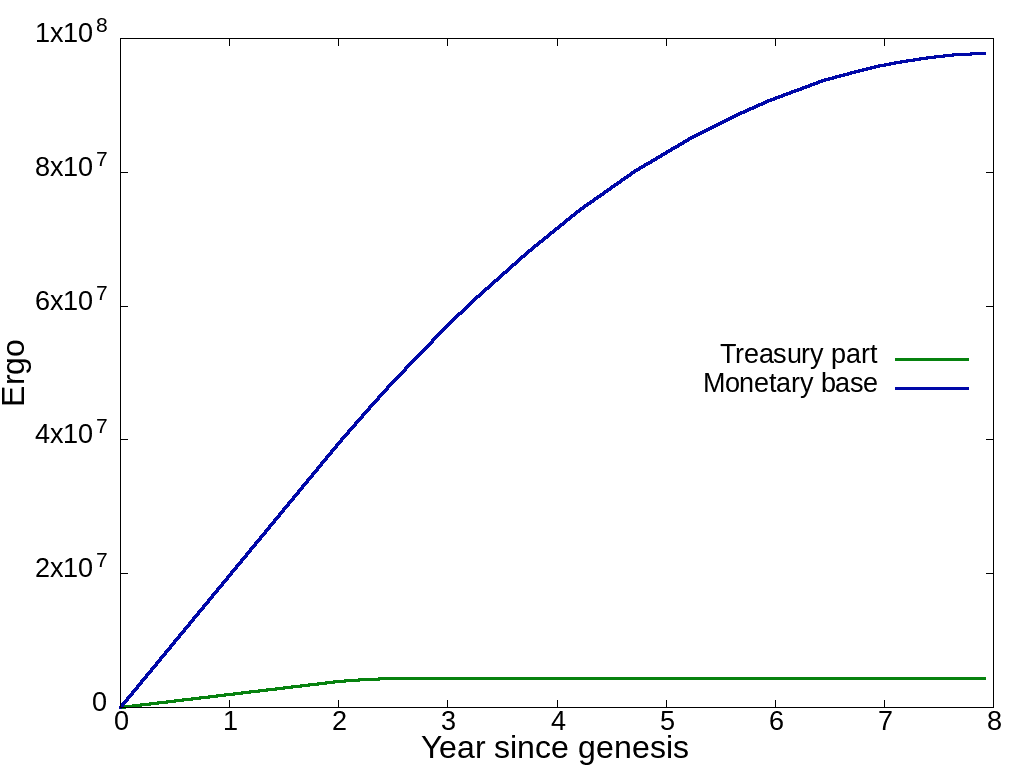
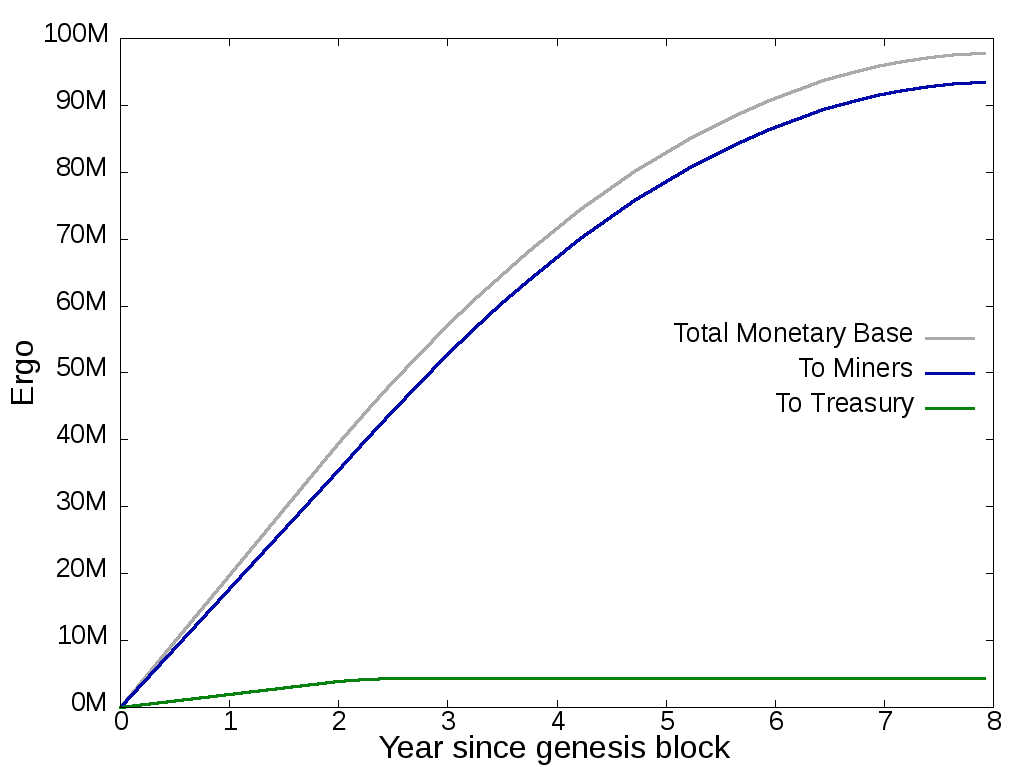
Justin comments

diff --git a/papers/whitepaper/intro.tex b/papers/whitepaper/intro.tex
@@ -1,24 +1,20 @@
 \section{Introduction}
 \label{sec:intro}
 
-%    Блокчейн дает безопасность (resilient), которая следует из децентрализации (на разных уровнях - майнеры, разработчики, легкие клиенты). (Bitcoin and its problems?)
-%    Безопасность идет высокой ценой (синхронизация и процессинг данных на куче компов), поэтому основное применение - денежное (Money)
-%    Для активного применения (platform) нужна адаптивность под окружение (голосование, выживаемость и т.д.) и возможности написания финансовых контрактов (Contractual)
-%    Вот это все в Эрго, лучше чем в Эфириуме и Биткоине.
+% say the WHY creating Ergo. And also attack the existing financial system a few times.
+% Important the readers know that Ergo really is in the same spirit of Bitcoin in the sense it is open,
+% permissionless and is designed to disintermediate trusted third parties. But then we need to make clear if
+% not too directly that Bitcoin/Ethereum still face a lot of challenges that Ergo is built to address.
 
-Started more ten years ago with the Bitcoin~\cite{nakamoto2008bitcoin}, blockchain technology proved
-to be a secure way of maintaining a public transaction ledger.
+Started more ten years ago with the Bitcoin~\cite{nakamoto2008bitcoin}, blockchain technology has so far proved
+to be a secure way of maintaining a public transaction ledger and disintermediating trusted third parties and
+traditional financial institutions to some degree.
 Even after achieving a market capitalization over \$300bn in 2017~\cite{btcPrice},
 no severe attacks were performed to the Bitcoin network despite the high potential yield.
-This outstanding resilience of cryptocurrencies is achieved by a combination of modern cryptographic algorithms
-and decentralized architecture.
-Cryptography itself is widely used outside the cryptocurrencies, however centralized services continuously
-being hacked\cite{sanger2015bank,leskin2018top} due to malicious or incompetent behavior of company employers.
-\knote{Why you are sure that this is a major problem of centralized services?}\dnote{I've provided 2 links, we may provide more if you don't think it is enough}
-Decentralized systems are resilient for such kind of attacks by design due to absence of an ``admin'' user
-that is capable to manually change records of the database and steal money or private data.
+This resilience of cryptocurrencies and the financial empowerment and self-sovereignty it promises to bring is
+achieved by a combination of modern cryptographic algorithms and decentralized architecture.
 
-However, this resilience does not come for free.
+However, this resilience does not come for free and has not yet been proven by existing systems in the long-term at economy wide-scale.
 To use a blockchain without any trust, its participants should check each other by downloading and
 processing all the transactions in the network, utilizing network resources.
 Besides network utilization, transaction processing requires to utilize computational resources,
@@ -27,7 +23,7 @@ Finally, blockchain participants should keep quite a significant amount of data 
 the storage requirements are growing fast.
 Thus transaction processing utilize various resources of thousands of computers all over the world
 and these resources consumption is paid by regular users via transaction fees~\cite{chepurnoy2018systematic}.
-These fees may be very high~\cite{bitcoinFees}
+Despite the generous block reward subsidy in some existing systems, these fees may be very high~\cite{bitcoinFees}
 and ten years later blockchain technology is still mainly used in financial applications, where the advantage of
 high security outweighs the disadvantage of high transaction costs.
 
@@ -53,21 +49,12 @@ While the contractual component is attractive in for building decentralized appl
 it is also essential that the blockchain will survive in the long term.
 For now, the whole area is young, and most of the application-oriented blockchain platforms exist just for several years,
 while they already have known problems with performance degradation over time~\cite{???} and their long-term survivability is questionable.
+And even older UTXO money-oriented blockchains have not yet been proven fully resilient in the long-run
+under changing conditions as we only have 10-years of blockchain history to this point.
 This problem led to concepts of light nodes with minimum storage requirements~\cite{reyzin2017improving},
 storage rent fee component that prevents bloating of full-node requirements~\cite{chepurnoy2018systematic},
 self-amendable protocols that can adapt to the changing environment and improve themselves without
 trusted parties~\cite{goodman2014tezos}, and more.
-Ergo combines various scientific ideas together to fix these problems, while also provide a way for
-further improvements without any breaking changes.
+What is needed is the combination of various scientific ideas together to fix these problems, while also
+providing a way for further improvements without any breaking changes and this is exactly what Ergo seeks to accomplish.
 
-This paper contains a detailed overview of the Ergo platform %for average-technical audience
-and is structured as follows: in Section~\ref{sec:social} we present general ideas of Ergo platform,
-Section~\ref{sec:autolykos} contains description of Ergo consensus protocol,
-in Section~\ref{sec:survivability} we describe main components, that are implemented in Ergo
-to achieve long term survivability, Section~\ref{sec:currency} describes native token
-of Ergo platform and its emission rules while in Section~\ref{sec:contractual} we
-discuss its value and possible use-cases of Ergo contracts.
-Finally, we conclude our work in Section~\ref{sec:conclusions}.
-More information about different Ergo components may be found in separate documents:
-full technical documentation~\cite{yellowpaper}, ErgoScript overview and examples\cite{???,???} and
-Proof-of-Work algorithm specification~\cite{Ergopow}.

diff --git a/papers/whitepaper/survivability.tex b/papers/whitepaper/survivability.tex
@@ -1,4 +1,4 @@
-\section{Survivability}
+\section{Resiliency and Survivability}
 \label{sec:survivability}
 
 \dnote{ rewrite in a more technical style?}
@@ -24,6 +24,7 @@ short-term innovations.
 Most of Ergo solutions are formalized in papers presented at peer-reviewed conferences
 and have been widely discussed in the community.
 
+A second problem decentralization and thus survivability faces is lack of secure trustless light clients.
 Ergo is trying to fix known problems of blockchain technology without creating new problems.
 As far as Ergo is a PoW blockchain, it easily allows extracting a small header from the block content.
 Header alone allows for validation of the work done on it, while headers-chain is enough for best chain selection
@@ -32,7 +33,7 @@ Headers-chain is much smaller than the full blockchain, however, it is still gro
 Hopefully, modern research of light clients~\cite{kiayias2017non,luuflyclient} provide a way to
 synchronize with the network by downloading even smaller amount of data, unlocking the ability to
 use the network without any trust from low-end hardware like mobile phones.
-Also, Ergo uses authenticated state\cite{reyzin2017improving} and for transactions included
+Also, Ergo uses authenticated state~\cite{reyzin2017improving} and for transactions included
 a client may download a proof of their correctness.
 The proof is generated by a block miner and allows to check all the state transitions happened within the block, namely,
 that transaction inputs not being spent before the transaction, and that the
@@ -42,7 +43,8 @@ a mobile phone can join the network and start using Ergo with the same security
 guarantees as a full node. \knote{Tell a story about light full-nodes as well.}
 \dnote{If we're going to extract "Ergo state" section, this story should go there}
 
-Although support of light clients solves problems of Ergo users, it does not solve problems
+Readers may see a third potential problem in that although support of light clients
+solves problems of Ergo users, it does not solve problems
 of Ergo miners that still should keep the whole state for efficient
 transaction validation.
 In existing blockchain systems, users can put arbitrary data to this state forever,
@@ -51,6 +53,9 @@ Big state size leads to serious security issues when the state does not fit in r
 an adversary may generate transactions which validation become very slow due to required random
 access to miners storage
 leading to DoS attack like an attack to the Ethereum network in 2016~\cite{??}.
+Moreover the community`s fear of these attacks and the problem of ``state bloat'' without any sort of
+compensation to miners and users holding the state may have prevented scaling solutions that otherwise
+could have been implemented such as somewhat larger block sizes for example.
 To prevent this, Ergo has a storage rent component: if an
 output remains in the state for 4 years without being moved, a miner may charge a small fee for every
 byte kept in the state.
@@ -63,7 +68,7 @@ Third, by collecting storage fees from outdated boxes, miners return coins to ci
 of circulating supply due to lost keys~\cite{wsj2018}.
 All these effects should support Ergo long-term survivability, both technically and economically.
 
-Another vital aspect of survivability is that the environment changes, so the network should
+A fourth vital challenge to survivability is that the environment changes, so the network should
 adapt to ever changing hardware infrastructure, ideas that may improve security or
 scalability emerge over time, use-cases evolution, and so on.
 If all the rules are fixed without any ability to change them in a decentralized manner, even
@@ -77,6 +82,7 @@ vote to whether approve the changes or not.
 If the majority of votes within an epoch are supporting a change, a new value of
 the parameter should be written into the extension section of the first block of the next epoch, and
 the network starts to use this update parameter value during block mining and validation.
+\dnote{highlight what parameters can be voted by miners}
 
 To absorb more fundamental changes, Ergo is following the approach of soft-forkability that
 allows to change protocol significantly with keeping old nodes operating.

diff --git a/papers/whitepaper/social_contract.tex b/papers/whitepaper/social_contract.tex
@@ -1,13 +1,15 @@
 \section{Ergo Vision}
 \label{sec:social}
 
-\knote{Ergo Vision And The Social Contract ?}
-\dnote{May be just Ergo Vision? }
+%\knote{Ergo Vision And The Social Contract ?}
+%\dnote{May be just Ergo Vision? }
 
 \Ergo{} protocol is very flexible and may be changed in the future by the community.
-In this section we define the main principles, that should be followed during the \Ergo{} live.
+In this section we define the main principles, that should be followed during the Ergo live which
+might be referred to as ``Ergo`s Social Contract''.
 In case of intentional violation of any of these principles, the resulting protocol should not
 be called \Ergo{}.
+
 
 \begin{itemize}
     \item{\em Decentralization first.} \Ergo{} should be as decentralized as possible: any parties (social leaders, software developers, hardware manufacturers, miners, funds and so on)
@@ -19,9 +21,13 @@ be called \Ergo{}.
     It is suitable for any applications, but the main focus is to provide an efficient, secure and easy way to implement financial contracts.
     \item{\em Long terms focus.} All aspects of \Ergo{} development should be focused on a long-term perspective.
     At any point of time, \Ergo{} should be able to survive for centuries without expected hard forks,
-    software or hardware improvements or some other unpredictable changes. As far as \Ergo{} is oriented to be a platform, applications built on top of \Ergo{} should also be able to survive in the long term.
+    software or hardware improvements or some other unpredictable changes.
+    As far as Ergo is oriented to be a platform, applications built on top of Ergo should also be able to survive in the long term.
+    This resiliency and long-term survivability may also enable Ergo to be a good store of value.
     \item{\em Permissionless and open.} \Ergo{} protocol does not restrict or limit any categories of usage.
     It should allow anyone to join the network and participate in the protocol without any preliminary actions.
-    No bailouts, blacklists or other forms of discrimination should be possible on the core level of \Ergo{} protocol.
-    On the other hand application developers are free to implement any logic they want, taking responsibility for the ethics and legality of their application.
+    Unlike the traditional financial system, no bailouts, blacklists or other forms of discrimination should be possible
+    on the core level of \Ergo{} protocol.
+    On the other hand application developers are free to implement any logic they want, taking responsibilit
+    y for the ethics and legality of their application.
 \end{itemize}

diff --git a/papers/whitepaper/currency.tex b/papers/whitepaper/currency.tex
@@ -74,10 +74,10 @@ the initial state and are divided into 3 parts~(boxes):
     Initially, it requires that spending transaction should be signed by at least 2 of 3 secret keys
     that are under control of initial team members. When they spend the box, they are free to
     change this part of the script as they wish, for example by adding new members to protect foundation
-    funds, or switching to threshold by special token ownership~\cite{link to ...}.
+    funds.
 
-    During the first year, these funds are going to be used to cover pre-issued EFYT token~\cite{our website},
-    after that, they will be distributed in a decentralized manner via community voting.
+    During the first year, these funds are going to be used to cover pre-issued EFYT token~\cite{our website with swap },
+    after that they will be distributed in a decentralized manner via a community voting system that is under development.
 
 
     \item{\em Miners reward.} This box contains 93,409,132 \Erg{} that will be collected by block miners

diff --git a/papers/whitepaper/autolykos.tex b/papers/whitepaper/autolykos.tex
@@ -5,7 +5,8 @@
 % Известные проблемы PoW
 % Детали Автоликуса
 
-The core component of any blockchain system is its consensus protocol.
+The core component of any blockchain system is its consensus protocol and Ergo utilizes a self-developed
+unique PoW protocol called the Autolykos Consensus Protocol further described below.
 Despite extensive research of possible alternatives to the original Proof-of-Work (PoW) protocol
 with the longest chain rule,
 is still in demand due to simplicity, high-security guarantees, and friendliness to light clients.
